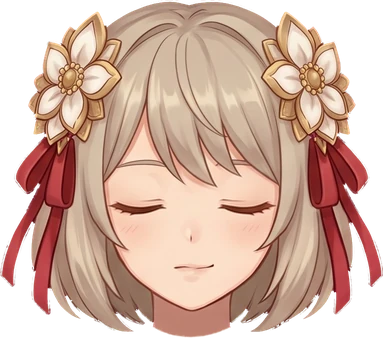
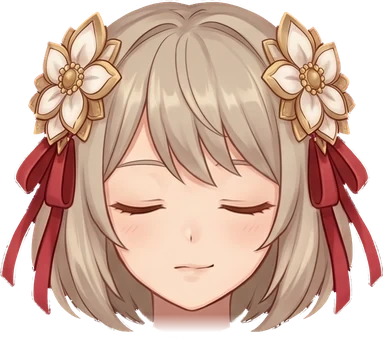
feat(4I): smooth walking, spring camera and a natural neck
Lag: the collection drawer fingerprint included the avatar's position, so
every position save while walking repainted ~100 cards and re-rendered the
wardrobe portrait (toDataURL). The fingerprint now tracks only the outfit,
OS key-repeat is ignored, taps no longer force a full repaint, position is
saved every 2.5s while walking (always on stop/blur/hide), and per-frame
HUD text is only written when it changes.

Camera: the edge dead-zone snap is replaced by a frame-rate independent
spring towards a point slightly ahead of the walking direction. Selecting
the avatar glides to it; a manual pan pauses following until the avatar is
steered again. Reduced motion follows without look-ahead or easing.

Neck: the head art already carries the top of the neck, so the head now sits
lower, the neck piece is widened to the jaw, its rounded cap is squared and
shaded into the chin shadow, and the chin stub fades into it
(tools/neck_fit.py, sources in tools/rig_src). Changed art is versioned with
?v=2 so cached copies are not reused.

Claude-Session: https://claude.ai/code/session_0178JCr5DuUpPvDwy7b6AxGM

Changed region(s): [[0.3734, 0.9172, 0.6319, 1.0]]

diff --git a/sw.js b/sw.js
@@ -1,4 +1,4 @@
-const CACHE_NAME = "bloomodoro-cache-v22";
+const CACHE_NAME = "bloomodoro-cache-v23";
 // Painted art and fonts are kept across releases (file names change when the
 // art changes), so an app update never makes the player download the garden again.
 const ART_CACHE = "bloomodoro-art-v1";
@@ -57,20 +57,20 @@ const PRECACHE_URLS = [
   "./assets/art/avatar/boots/front_right.webp",
   "./assets/art/avatar/boots/side_far.webp",
   "./assets/art/avatar/boots/side_near.webp",
-  "./assets/art/avatar/expressions/head_blink.webp",
-  "./assets/art/avatar/expressions/head_focused.webp",
-  "./assets/art/avatar/expressions/head_halfblink.webp",
-  "./assets/art/avatar/expressions/head_happy.webp",
-  "./assets/art/avatar/expressions/head_neutral.webp",
-  "./assets/art/avatar/expressions/head_surprised.webp",
+  "./assets/art/avatar/expressions/head_blink.webp?v=2",
+  "./assets/art/avatar/expressions/head_focused.webp?v=2",
+  "./assets/art/avatar/expressions/head_halfblink.webp?v=2",
+  "./assets/art/avatar/expressions/head_happy.webp?v=2",
+  "./assets/art/avatar/expressions/head_neutral.webp?v=2",
+  "./assets/art/avatar/expressions/head_surprised.webp?v=2",
   "./assets/art/avatar/front/bag.webp",
   "./assets/art/avatar/front/cape.webp",
   "./assets/art/avatar/front/capelet.webp",
   "./assets/art/avatar/front/forearm_left.webp",
   "./assets/art/avatar/front/forearm_right.webp",
   "./assets/art/avatar/front/hair_back.webp",
-  "./assets/art/avatar/front/head.webp",
-  "./assets/art/avatar/front/neck.webp",
+  "./assets/art/avatar/front/head.webp?v=2",
+  "./assets/art/avatar/front/neck.webp?v=2",
   "./assets/art/avatar/front/skirt.webp",
   "./assets/art/avatar/front/sleeve_left.webp",
   "./assets/art/avatar/front/sleeve_right.webp",
@@ -85,7 +85,7 @@ const PRECACHE_URLS = [
   "./assets/art/avatar/side/hair_back.webp",
   "./assets/art/avatar/side/head.webp",
   "./assets/art/avatar/side/head_blink.webp",
-  "./assets/art/avatar/side/neck.webp",
+  "./assets/art/avatar/side/neck.webp?v=2",
   "./assets/art/avatar/side/skirt.webp",
   "./assets/art/avatar/side/thigh_far.webp",
   "./assets/art/avatar/side/thigh_near.webp",

diff --git a/index.html b/index.html
@@ -41,7 +41,7 @@
   <link rel="preload" as="image" href="assets/art/world/terrain/grass.webp" fetchpriority="high" />
   <link rel="preload" as="image" href="assets/art/world/terrain/dirt_path.webp" fetchpriority="high" />
   <link rel="preload" as="image" href="assets/art/avatar/front/torso.webp" fetchpriority="high" />
-  <link rel="preload" as="image" href="assets/art/avatar/front/head.webp" fetchpriority="high" />
+  <link rel="preload" as="image" href="assets/art/avatar/front/head.webp?v=2" fetchpriority="high" />
   <link rel="preload" as="image" href="assets/art/avatar/front/skirt.webp" fetchpriority="high" />
   <link rel="preload" as="image" href="assets/art/avatar/front/cape.webp" fetchpriority="high" />
   <link rel="stylesheet" href="assets/fonts/fonts.css" />

diff --git a/tools/neck_fit.py b/tools/neck_fit.py
@@ -1,0 +1,75 @@
+"""Fit the separate neck piece to the neck stub painted under each head.
+
+The head pictures already include the top of the neck in the chin's shadow.
+The neck piece was a rounded capsule, so its lighter rounded top showed as a
+second band under the chin. This squares off the capsule top and paints the
+chin shadow down into it, so stub and neck read as one neck. Sizes and pivots
+are unchanged, so the rig data stays valid.
+
+Sources: tools/rig_src/<view>_neck.webp -> assets/art/avatar/<view>/neck.webp
+"""
+from pathlib import Path
+import numpy as np
+from PIL import Image
+
+ROOT = Path(__file__).resolve().parent.parent
+# Shadow colour of the stub under each head (sampled from head.webp).
+SHADOW = {"front": (190, 122, 111), "side": (214, 146, 136)}
+
+
+def fit(view: str, fade: float = 0.38, strength: float = 0.8) -> None:
+    src = np.array(Image.open(ROOT / f"tools/rig_src/{view}_neck.webp").convert("RGBA")).astype(float)
+    h, w = src.shape[:2]
+    alpha = src[..., 3] > 128
+    widths = alpha.sum(1)
+    body = int(np.median(widths[h // 5: h // 2]))
+    top = next(y for y in range(h) if widths[y] >= body * 0.92)
+    cols = np.where(alpha[top])[0]
+    x0, x1 = cols[0], cols[-1]
+    out = src.copy()
+    for y in range(top):  # square the rounded cap using the first full row
+        out[y, x0:x1 + 1] = src[top, x0:x1 + 1]
+    shade = np.array(SHADOW[view], float)
+    g = int(h * fade)
+    for y in range(g):
+        k = strength * (1 - y / g) ** 1.4
+        row = out[y, :, :3]
+        out[y, :, :3] = row * (1 - k) + shade * k
+    Image.fromarray(out.clip(0, 255).astype(np.uint8)).save(
+        ROOT / f"assets/art/avatar/{view}/neck.webp", "WEBP", quality=92, method=6)
+    print(view, "body width", body, "cap rows", top)
+
+
+def feather_stub(src: Path, dst: Path, keep: float = 0.25) -> None:
+    """Fade the neck stub under the chin to transparent so it melts into the
+    neck piece drawn behind it, instead of ending in a hard edge."""
+    a = np.array(Image.open(src).convert("RGBA")).astype(float)
+    h, w = a.shape[:2]
+    cx = w // 2
+    lum = a[..., :3].mean(2)
+    lo = int(h * 0.85)
+    jaw = lo + int(np.argmin(lum[lo:, cx] + (a[lo:, cx, 3] < 128) * 999))
+    start = jaw + max(2, int(h * 0.012))
+    span = h - start
+    for y in range(start, h):
+        row = a[y, :, 3] > 20
+        if not row[cx]:
+            continue
+        x0 = x1 = cx
+        while x0 > 0 and row[x0 - 1]:
+            x0 -= 1
+        while x1 < w - 1 and row[x1 + 1]:
+            x1 += 1
+        t = (y - start) / span
+        k = max(0.0, 1 - t / (1 - keep)) if t > 0 else 1.0
+        a[y, x0:x1 + 1, 3] *= k
+    Image.fromarray(a.clip(0, 255).astype(np.uint8)).save(dst, "WEBP", quality=92, method=6)
+    print(dst.name, "jaw row", jaw, "of", h)
+
+
+if __name__ == "__main__":
+    for v in ("front", "side"):
+        fit(v)
+    feather_stub(ROOT / "tools/rig_src/front_head.webp", ROOT / "assets/art/avatar/front/head.webp")
+    for src in sorted((ROOT / "tools/rig_src").glob("expressions_*.webp")):
+        feather_stub(src, ROOT / "assets/art/avatar/expressions" / src.name.replace("expressions_", ""))
